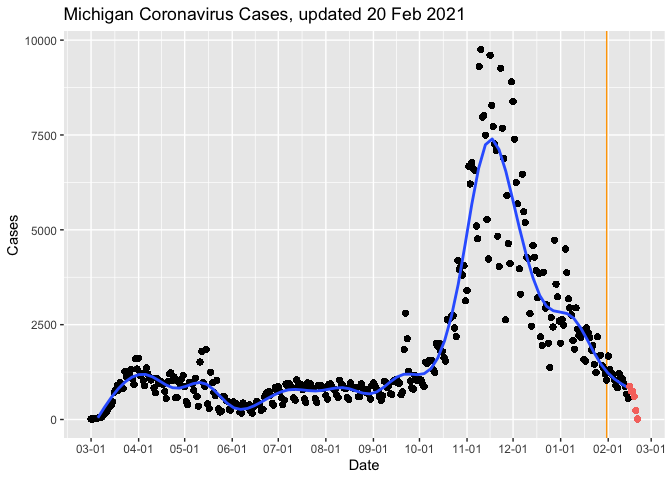
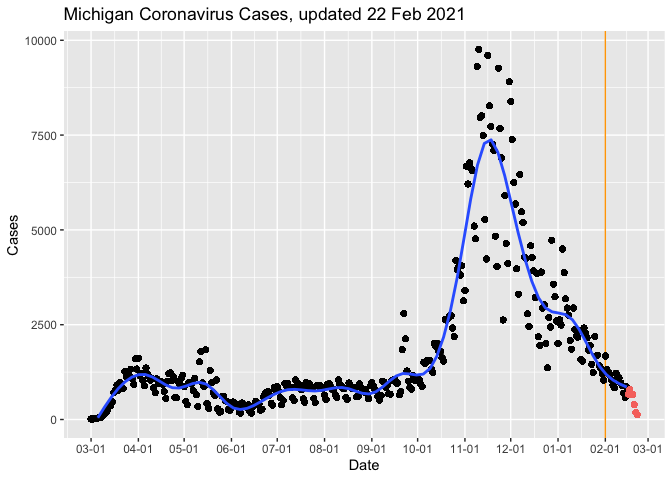
Feb-22 2021 18:59 update

diff --git a/MiCorona.md b/MiCorona.md
@@ -1,7 +1,7 @@
 Michigan COVID Data
 ================
 Adam D. DenHaan
-Feb 21, 2021
+Feb 22, 2021
 
 ``` python
 from urllib.request import urlopen
@@ -34,16 +34,16 @@ mi_data = readxl::read_excel("data/covid.xlsx")
 glimpse(mi_data)
 ```
 
-    ## Rows: 62,843
+    ## Rows: 63,194
     ## Columns: 8
-    ## $ COUNTY            <chr> "Alcona", "Alcona", "Alcona", "Alcona", "Alcona", "…
-    ## $ Date              <dttm> 2020-03-01, 2020-03-02, 2020-03-03, 2020-03-04, 20…
-    ## $ CASE_STATUS       <chr> "Confirmed", "Confirmed", "Confirmed", "Confirmed",…
-    ## $ Cases             <dbl> 0, 0, 0, 0, 0, 0, 0, 0, 0, 0, 0, 0, 0, 0, 0, 0, 0, …
-    ## $ Deaths            <dbl> 0, 0, 0, 0, 0, 0, 0, 0, 0, 0, 0, 0, 0, 0, 0, 0, 0, …
-    ## $ Cases.Cumulative  <dbl> 0, 0, 0, 0, 0, 0, 0, 0, 0, 0, 0, 0, 0, 0, 0, 0, 0, …
-    ## $ Deaths.Cumulative <dbl> 0, 0, 0, 0, 0, 0, 0, 0, 0, 0, 0, 0, 0, 0, 0, 0, 0, …
-    ## $ Updated           <dttm> 2021-02-20 14:48:15, 2021-02-20 14:48:15, 2021-02-…
+    ## $ COUNTY            <chr> "Alcona", "Alcona", "Alcona", "Alcona", "Alcona", "A…
+    ## $ Date              <dttm> 2020-03-01, 2020-03-02, 2020-03-03, 2020-03-04, 202…
+    ## $ CASE_STATUS       <chr> "Confirmed", "Confirmed", "Confirmed", "Confirmed", …
+    ## $ Cases             <dbl> 0, 0, 0, 0, 0, 0, 0, 0, 0, 0, 0, 0, 0, 0, 0, 0, 0, 0…
+    ## $ Deaths            <dbl> 0, 0, 0, 0, 0, 0, 0, 0, 0, 0, 0, 0, 0, 0, 0, 0, 0, 0…
+    ## $ Cases.Cumulative  <dbl> 0, 0, 0, 0, 0, 0, 0, 0, 0, 0, 0, 0, 0, 0, 0, 0, 0, 0…
+    ## $ Deaths.Cumulative <dbl> 0, 0, 0, 0, 0, 0, 0, 0, 0, 0, 0, 0, 0, 0, 0, 0, 0, 0…
+    ## $ Updated           <dttm> 2021-02-22 13:57:47, 2021-02-22 13:57:47, 2021-02-2…
 
 Wrangle Data:
 
@@ -97,7 +97,7 @@ mi_cases_by_day_exclusive %>%
 
 ![](MiCorona_files/figure-gfm/viz-1.png)<!-- -->
 
-Note that the last 6 days of data have been colored red on the graph, as
+Note that the last 7 days of data have been colored red on the graph, as
 they frequently change as more information becomes available. Vertical
 orange line at 3 weeks in the past (as hospitalizations usually follow
 cases by three weeks).
